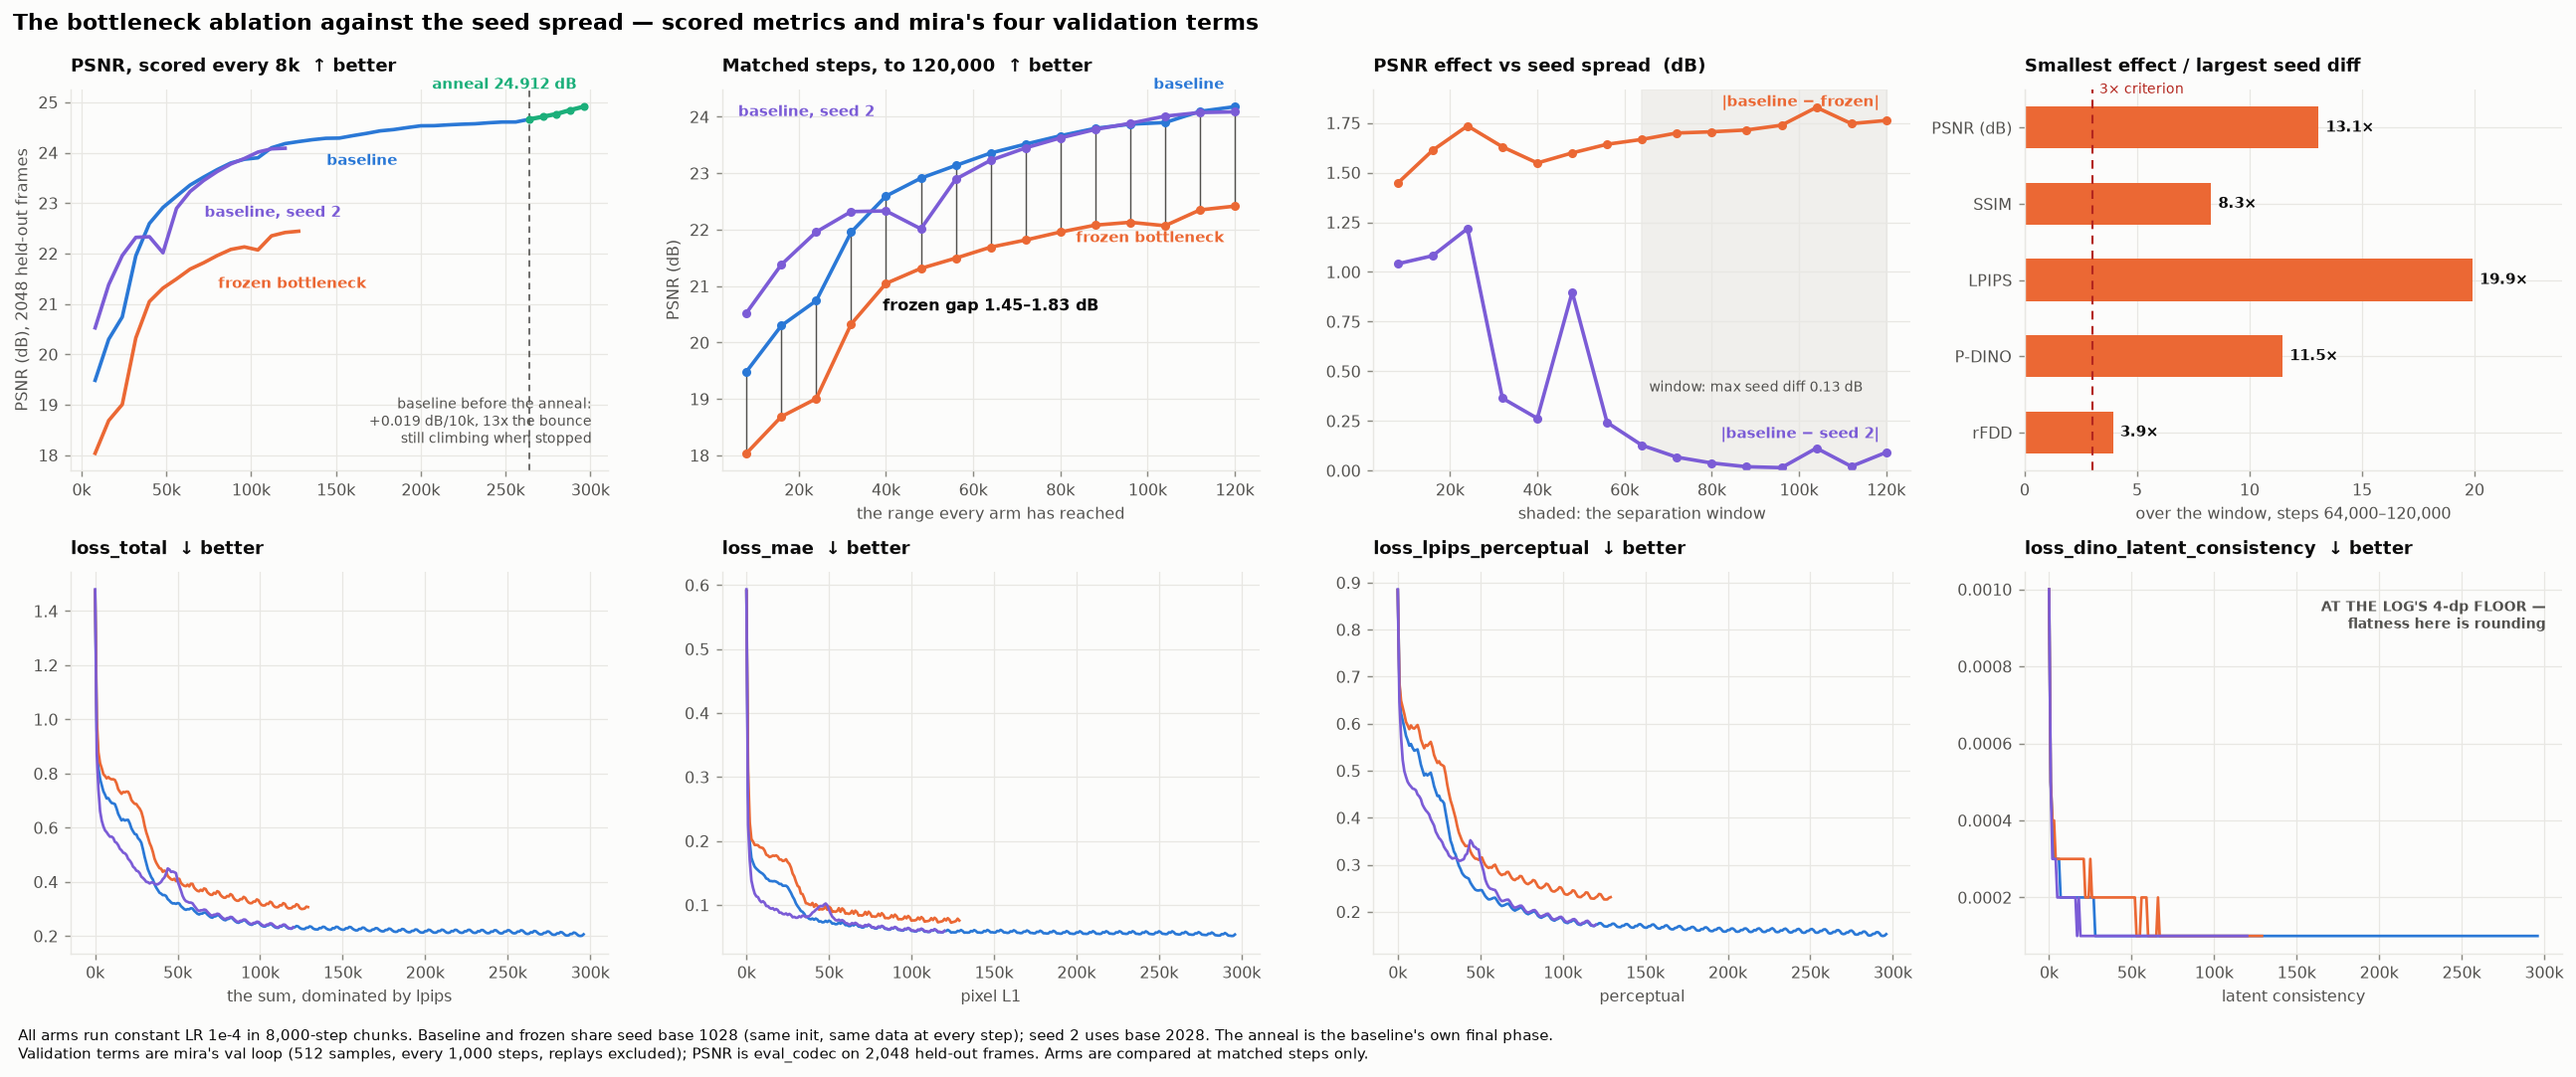
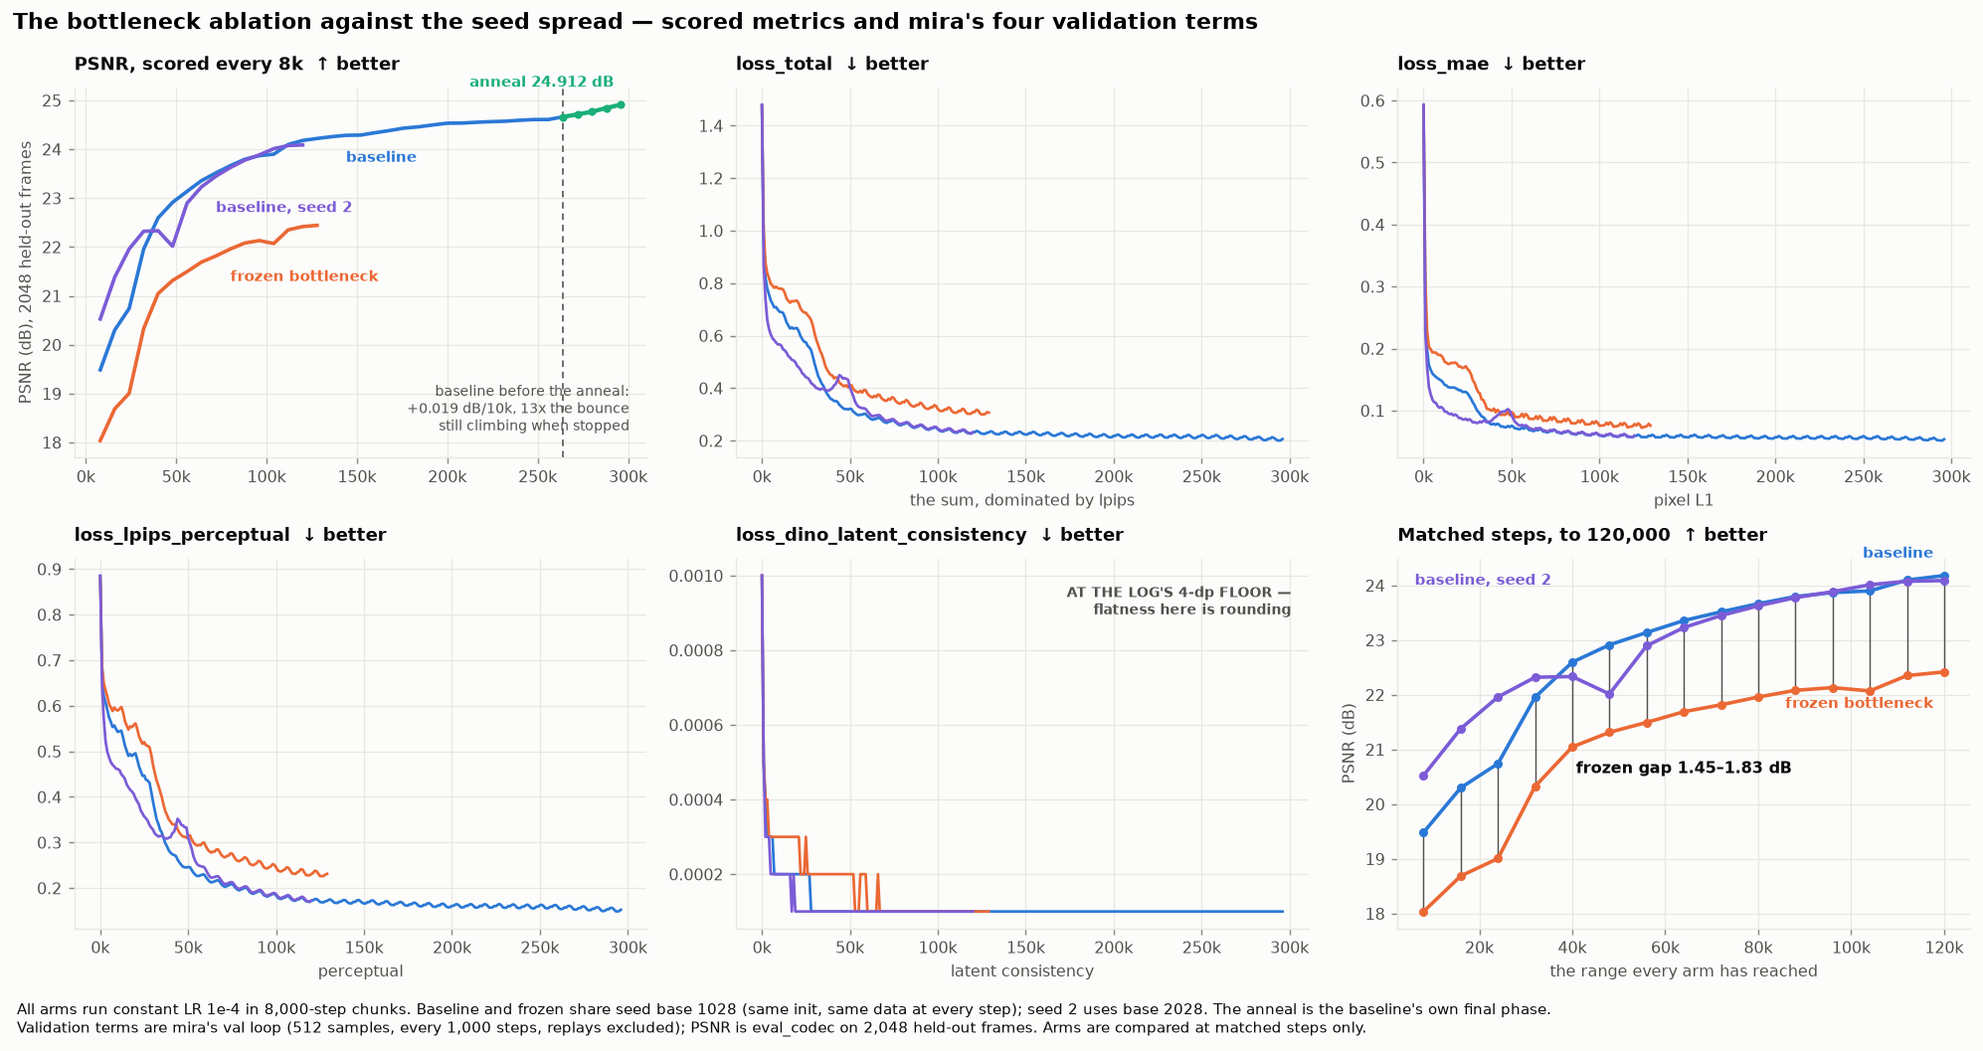
Drop the effect-vs-spread and ratio panels; the table carries them

diff --git a/postprocessing/plot_arms.py b/postprocessing/plot_arms.py
@@ -16,8 +16,8 @@ overlapping bars.
 
 THE SEED ARM IS NOT PAIRED. `baseline_v2_s2` is the baseline model on seed base 2028, so it starts
 from different weights and meets different data at every step. Its difference from the baseline is
-the run-to-run spread, and the gap panel draws it beside the frozen arm's gap so the effect is read
-against the noise it has to clear. It is never described as a gap.
+the run-to-run spread, tabulated beside the frozen arm's gap in stats.md. It is never described as a
+gap.
 
 THE SEPARATION WINDOW is the second half of the range all three arms share. It was chosen after the
 data was seen: before it, the seed difference is as large as the effect (up to 1.2 dB at 24,000),
@@ -33,6 +33,7 @@ against the baseline's ENDPOINT, which would confound the intervention with the 
 
 from __future__ import annotations
 
+import itertools
 import json
 import re
 
@@ -45,7 +46,6 @@ C_BASE = "#2a78d6"
 C_ANNEAL = "#1baf7a"
 C_FROZEN = "#eb6834"
 C_SEED2 = "#7b5cd6"
-C_THRESH = "#b3261e"
 
 # Effect must clear the seed spread by this factor, the criterion the A/B/C launcher set and failed.
 CRITERION = 3.0
@@ -166,7 +166,7 @@ def build():
     psnr = {run: scored(run) for run, _, _ in ARMS}
     present = [(run, name, c) for run, name, c in ARMS if psnr[run]]
 
-    fig, axes = plt.subplots(2, 4, figsize=(20, 8.4), facecolor=SURFACE)
+    fig, axes = plt.subplots(2, 3, figsize=(15.4, 8.2), facecolor=SURFACE)
 
     # ---- panel 1: the scored metric, every arm -------------------------------------------------
     ax = axes[0][0]
@@ -214,7 +214,7 @@ def build():
 
     # ---- panels 2-5: mira's four validation terms, every arm -----------------------------------
     for idx, (term, sub) in enumerate(LOSS_TERMS):
-        a = axes[1][idx]
+        a = axes[(idx + 1) // 3][(idx + 1) % 3]
         floored = False
         for run, name, c in present:
             pts = readings(run, term)
@@ -238,7 +238,7 @@ def build():
             )
 
     # ---- panel 6: the matched range, where a comparison is legible ------------------------------
-    bx = axes[0][1]
+    bx = axes[1][2]
     others = [(run, name, c) for run, name, c in present if run != BASELINE]
     hi = min((psnr[run][-1][0] for run, _, _ in others), default=None)
     if hi is not None:
@@ -287,56 +287,13 @@ def build():
     else:
         bx.axis("off")
 
-    # ---- panel 7: the effect against the noise it must clear, per step --------------------------
-    if psnr[FROZEN] and psnr[SEED2]:
-        steps, sep = separation(FROZEN, SEED2)
-        eff, seed = sep["psnr"]
-        gx = axes[0][2]
-        gx.plot(steps, eff, color=C_FROZEN, linewidth=2, marker="o", markersize=4)
-        gx.plot(steps, seed, color=C_SEED2, linewidth=2, marker="o", markersize=4)
-        w = window(steps)
-        gx.axvspan(steps[w], steps[-1], color=GRID, alpha=0.6, zorder=0)
-        label_at(gx, (steps[-1], eff[-1]), "|baseline − frozen|", C_FROZEN, dx=-4, dy=8, ha="right")
-        label_at(gx, (steps[-1], seed[-1]), "|baseline − seed 2|", C_SEED2, dx=-4, dy=8, ha="right")
-        gx.annotate(
-            f"window: max seed diff {max(seed[w:]):.2f} dB",
-            xy=(steps[w], max(seed[w:])),
-            xytext=(4, 30),
-            textcoords="offset points",
-            fontsize=8,
-            color=INK_SOFT,
-        )
-        gx.set_ylim(bottom=0)
-        gx.set_title("PSNR effect vs seed spread  (dB)", loc="left", fontweight="bold")
-        gx.set_xlabel("shaded: the separation window")
-
-        # ---- panel 8: the worst-case ratio in the window, for every scored metric ----------------
-        rx = axes[0][3]
-        ratios = [min(sep[m][0][w:]) / max(sep[m][1][w:]) for m in METRICS]
-        ys = list(range(len(METRICS)))[::-1]
-        rx.barh(ys, ratios, color=C_FROZEN, height=0.55)
-        rx.axvline(CRITERION, color=C_THRESH, linewidth=1.2, linestyle=(0, (4, 3)))
-        rx.annotate(f"{CRITERION:g}× criterion", xy=(CRITERION, ys[0] + 0.45), xytext=(4, 0),
-                    textcoords="offset points", fontsize=8, color=C_THRESH)
-        for y, r in zip(ys, ratios, strict=True):
-            rx.annotate(f"{r:.1f}×", xy=(r, y), xytext=(4, 0), textcoords="offset points",
-                        va="center", fontsize=8.5, fontweight="bold", color=INK)
-        rx.set_yticks(ys, [lib.METRIC_LABEL[m] for m in METRICS])
-        rx.set_xlim(0, max(ratios) * 1.2)
-        rx.set_title("Smallest effect / largest seed diff", loc="left", fontweight="bold")
-        rx.set_xlabel(f"over the window, steps {steps[w]:,}–{steps[-1]:,}")
-    else:
-        axes[0][2].axis("off")
-        axes[0][3].axis("off")
-
     for a in axes.flat:
         if a.has_data():
             a.set_facecolor(SURFACE)
             a.grid(True, color=GRID, linewidth=0.7)
             a.set_axisbelow(True)
             lib.spines(a)
-            if a is not axes[0][3]:
-                lib.thousands(a)
+            lib.thousands(a)
 
     fig.tight_layout(rect=(0, 0.05, 1, 0.955))
     fig.suptitle(
@@ -428,7 +385,7 @@ def stats_for(psnr, cut) -> str:
 
         # Per-chunk increments, for the step-104,000 question pre-registered in the notes.
         def incs(pts):
-            return {b[0]: b[1] - a[1] for a, b in zip(pts, pts[1:])}
+            return {b[0]: b[1] - a[1] for a, b in itertools.pairwise(pts)}
 
         ib, i2 = incs([(s, p) for s, p in base if s <= steps[-1]]), incs(sd2)
         rows = "\n".join(f"| {s:,} | {ib[s]:+.4f} | {i2[s]:+.4f} |" for s in steps if s in ib and s in i2)
